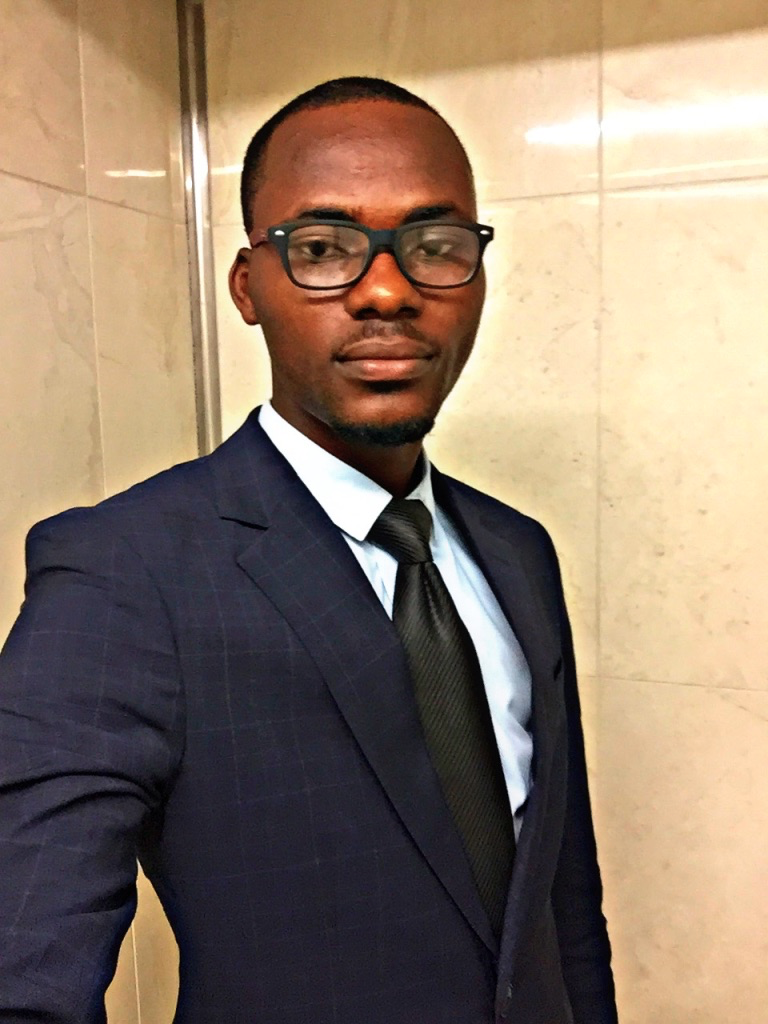
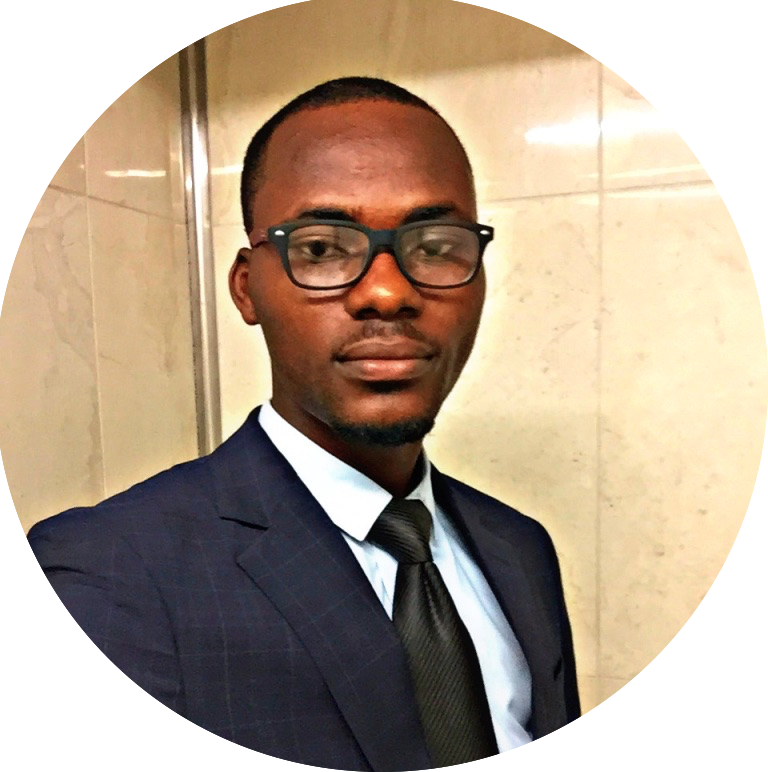
added rounded team images

diff --git a/Team.html b/Team.html
@@ -46,29 +46,31 @@
       <h1 id="awesome-team">Our Awesome Team</h1>
       <img src="img/team/team.JPG" id="team" alt="">
       <div class="jumbotron">
-        <img src="img/team/t1.JPG" id="team1" alt="">
-        <p>Lorem ipsum dolor sit amet, consectetur adipiscing elit. Donec consequat quam sed pharetra egestas. Donec bibendum at massa id tempus. Donec mollis ut enim sit amet laoreet. Suspendisse vitae urna hendrerit, laoreet ex sed, pulvinar odio. Curabitur
+        <img src="img/team/t1.png" id="team1" alt="">
+        <h3>Peter Attipoe - CEO</h3>
+        <p id="profile">Lorem ipsum dolor sit amet, consectetur adipiscing elit. Donec consequat quam sed pharetra egestas. Donec bibendum at massa id tempus. Donec mollis ut enim sit amet laoreet. Suspendisse vitae urna hendrerit, laoreet ex sed, pulvinar odio. Curabitur
+          in aliquam diam. Interdum et malesuada fames ac ante ipsum primis in faucibus. Nullam ipsum erat, condimentum eu quam ornare, ultricies accumsan lorem.
+        </p>
+      </div>
+      <div class="jumbotron">
+        <img src="img/team/t2.png" id="team1" alt="">
+        <h3>Norkplim Ahiatrogah - CMO</h3>
+        <p id="profile">Lorem ipsum dolor sit amet, consectetur adipiscing elit. Donec consequat quam sed pharetra egestas. Donec bibendum at massa id tempus. Donec mollis ut enim sit amet laoreet. Suspendisse vitae urna hendrerit, laoreet ex sed, pulvinar odio. Curabitur
           in aliquam diam. Aenean bibendum est eu sagittis ultrices. Phasellus vestibulum consectetur dolor at consectetur. Interdum et malesuada fames ac ante ipsum primis in faucibus. Nullam ipsum erat, condimentum eu quam ornare, ultricies accumsan
           lorem.
         </p>
       </div>
       <div class="jumbotron">
-        <img src="img/team/t2.JPG" id="team1" alt="">
-        <p>Lorem ipsum dolor sit amet, consectetur adipiscing elit. Donec consequat quam sed pharetra egestas. Donec bibendum at massa id tempus. Donec mollis ut enim sit amet laoreet. Suspendisse vitae urna hendrerit, laoreet ex sed, pulvinar odio. Curabitur
-          in aliquam diam. Aenean bibendum est eu sagittis ultrices. Phasellus vestibulum consectetur dolor at consectetur. Interdum et malesuada fames ac ante ipsum primis in faucibus. Nullam ipsum erat, condimentum eu quam ornare, ultricies accumsan
-          lorem.
+        <h3>Abdul Malik Jabel Yusif - CTO</h3>
+        <img src="img/team/t3.png" id="team1" alt="">
+        <p id="profile">Lorem ipsum dolor sit amet, consectetur adipiscing elit. Suspendisse vitae urna hendrerit, laoreet ex sed, pulvinar odio. Curabitur in aliquam diam. Aenean bibendum est eu sagittis ultrices. Phasellus vestibulum consectetur dolor at consectetur.
+          Interdum et malesuada fames ac ante ipsum primis in faucibus. Nullam ipsum erat, condimentum eu quam ornare, ultricies accumsan lorem.
         </p>
       </div>
       <div class="jumbotron">
-        <img src="img/team/t3.JPG" id="team1" alt="">
-        <p>Lorem ipsum dolor sit amet, consectetur adipiscing elit. Donec consequat quam sed pharetra egestas. Donec bibendum at massa id tempus. Donec mollis ut enim sit amet laoreet. Suspendisse vitae urna hendrerit, laoreet ex sed, pulvinar odio. Curabitur
-          in aliquam diam. Aenean bibendum est eu sagittis ultrices. Phasellus vestibulum consectetur dolor at consectetur. Interdum et malesuada fames ac ante ipsum primis in faucibus. Nullam ipsum erat, condimentum eu quam ornare, ultricies accumsan
-          lorem.
-        </p>
-      </div>
-      <div class="jumbotron">
+        <h3>Anyinatoe Emmanuel Nartey - CFO</h3>
         <img src="img/team/t4.png" id="team1" alt="">
-        <p>Lorem ipsum dolor sit amet, consectetur adipiscing elit. Donec consequat quam sed pharetra egestas. Donec bibendum at massa id tempus. Donec mollis ut enim sit amet laoreet. Suspendisse vitae urna hendrerit, laoreet ex sed, pulvinar odio. Curabitur
+        <p id="profile">Lorem ipsum dolor sit amet, consectetur adipiscing elit. Donec consequat quam sed pharetra egestas. Donec bibendum at massa id tempus. Donec mollis ut enim sit amet laoreet. Suspendisse vitae urna hendrerit, laoreet ex sed, pulvinar odio. Curabitur
           in aliquam diam. Aenean bibendum est eu sagittis ultrices. Phasellus vestibulum consectetur dolor at consectetur. Interdum et malesuada fames ac ante ipsum primis in faucibus. Nullam ipsum erat, condimentum eu quam ornare, ultricies accumsan
           lorem.
         </p>

diff --git a/css/styles.css b/css/styles.css
@@ -191,8 +191,22 @@ h2 {
 }
 
 #team1 {
-  width: 200px;
+  width: 250px;
   float: right;
+}
+
+#profile {
+  padding-left: 80px;
+  padding-right: 180px;
+  color: #5f0713;
+  text-align: center;
+}
+
+h3 {
+  text-align: center;
+  color: #f3c057;
+  font-family: 'Tangerine', cursive;
+  font-size: 40px;
 }
 
 
